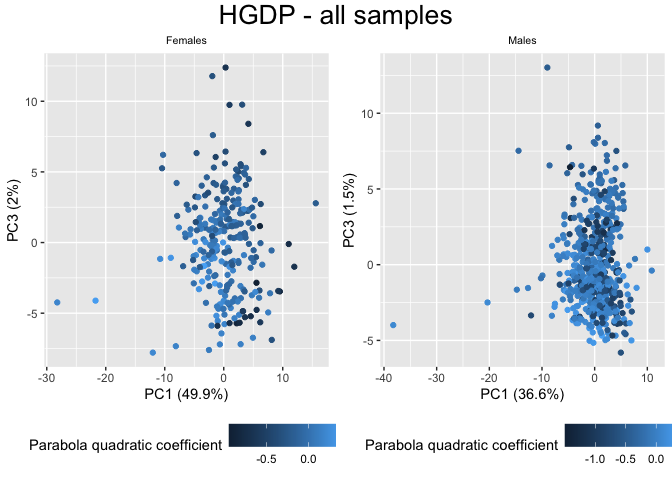
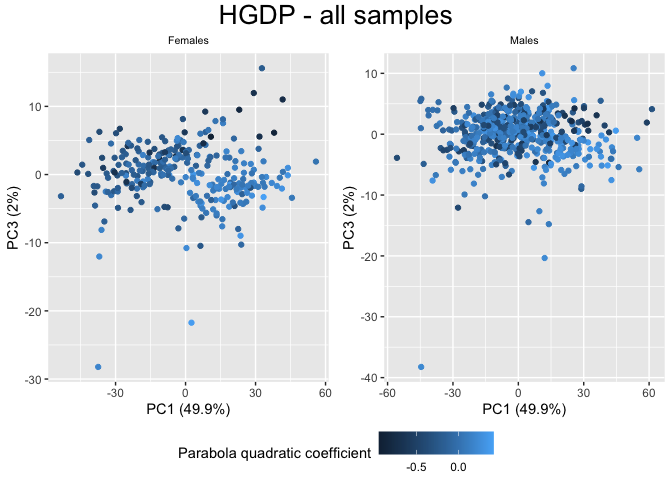
GC bias SNPs
-

diff --git a/documentation/other-documentation/GC-bias.md b/documentation/other-documentation/GC-bias.md
@@ -257,7 +257,26 @@ all_parabolas <- function(data){
 a_HGDP <- all_parabolas(HGDP)
 a_SGDP <- all_parabolas(SGDP)
 
-joined_HGDP <- inner_join(HGDP, a_HGDP, by="ID") %>% filter(type=="te") 
+(joined_HGDP <- inner_join(HGDP, a_HGDP, by="ID") %>% filter(type=="te"))
+```
+
+    ## # A tibble: 799,020 × 11
+    ##    ID       pop   sex   country type  famil…¹ length  reads copyn…² batch      a
+    ##    <chr>    <chr> <chr> <chr>   <chr> <chr>    <dbl>  <dbl>   <dbl> <chr>  <dbl>
+    ##  1 HGDP000… Brah… male  Centra… te    LTR65      669 1.10e3 6.57e+0 ro    -0.830
+    ##  2 HGDP000… Brah… male  Centra… te    HERVK3I   7242 3.89e4 2.15e+1 ro    -0.830
+    ##  3 HGDP000… Brah… male  Centra… te    HERV9     8399 3.12e5 1.49e+2 ro    -0.830
+    ##  4 HGDP000… Brah… male  Centra… te    L1PA12…   3072 6.41e4 8.36e+1 ro    -0.830
+    ##  5 HGDP000… Brah… male  Centra… te    LTR27C     767 3.13e3 1.63e+1 ro    -0.830
+    ##  6 HGDP000… Brah… male  Centra… te    LTR16A1    457 4.14e2 3.63e+0 ro    -0.830
+    ##  7 HGDP000… Brah… male  Centra… te    Tigger…    933 9.32e0 4.01e-2 ro    -0.830
+    ##  8 HGDP000… Brah… male  Centra… te    LTR23      437 7.70e3 7.06e+1 ro    -0.830
+    ##  9 HGDP000… Brah… male  Centra… te    X32_DNA    336 4.38e1 5.22e-1 ro    -0.830
+    ## 10 HGDP000… Brah… male  Centra… te    LTR53      519 1.36e3 1.05e+1 ro    -0.830
+    ## # … with 799,010 more rows, and abbreviated variable names ¹familyname,
+    ## #   ²copynumber
+
+``` r
 joined_SGDP <- inner_join(SGDP, a_SGDP, by="ID") %>% filter(type=="te")
 
 joined_HGDP_nopcr <- inner_join(HGDP_pcr_free, a_HGDP, by="ID") %>% filter(type=="te") 
@@ -356,7 +375,7 @@ Yes!
 ### Exploring other PCs
 
 ``` r
-PCA_GC_34 <- function(data, title){
+PCA_otherPC_GC <- function(data, title, PCx, PCy){
   m <- filter(data, sex=='male')
   f <- filter(data, sex=='female')
   len <- length(unique(data$familyname))
@@ -370,7 +389,7 @@ PCA_GC_34 <- function(data, title){
   f_matrixcont<-matrix(as.vector(f$country),nrow=females,ncol=len,byrow=T)
   f_framcont<-data.frame(f_matrixcont)
   f_rsqrcol<-unique(f$a)
-
+  
    m_matrix<-matrix(as.vector(m$copynumber),nrow=males,ncol=len,byrow=T)
    m_fram<-data.frame(m_matrix)
    names(m_fram)<-unique(m$familyname)
@@ -378,58 +397,204 @@ PCA_GC_34 <- function(data, title){
    m_matrixcont<-matrix(as.vector(m$country),nrow=males,ncol=len,byrow=T)
    m_framcont<-data.frame(m_matrixcont)
    m_rsqrcol<-unique(m$a)
-  
-    fHGDP.pca <- prcomp(f_fram, center = TRUE, scale = TRUE)
-    f_var <- summary(fHGDP.pca)$importance[2,1]
 
 fHGDP.pca <- prcomp(f_fram, center = TRUE, scale = TRUE)
-f_var1 <- summary(fHGDP.pca)$importance[2,1]
-f_var2 <- summary(fHGDP.pca)$importance[2,3]
+f_var1 <- summary(fHGDP.pca)$importance[2,PCx]
+f_var2 <- summary(fHGDP.pca)$importance[2,PCy]
 
-f_PCA <- ggplot(data=f_fram, aes(x=fHGDP.pca$x[,3], y=fHGDP.pca$x[,4], color = f_rsqrcol)) + 
+f_PCA <- ggplot(data=f_fram, aes(x=fHGDP.pca$x[,PCx], y=fHGDP.pca$x[,PCy], color = f_rsqrcol)) + 
   geom_point() + 
   ggtitle("Females") + 
-  xlab(paste0("PC1 (", round(f_var1,3)*100,"%)")) + 
-  ylab(paste0("PC3 (",round(f_var2,3)*100,"%)")) + 
-  theme(plot.title = element_text(size = 8, hjust = 0.5)) + 
-  guides(col = guide_colourbar(title = "Parabola quadratic coefficient"))
+  xlab(paste0("PC", PCx, " (", round(f_var1,3)*100,"%)")) + 
+  ylab(paste0("PC", PCy, " (",round(f_var2,3)*100,"%)")) + 
+  theme(plot.title = element_text(size = 8, hjust = 0.5)) +
+guides(col = guide_colourbar(title = "Parabola quadratic coefficient")) 
 
 mHGDP.pca <- prcomp(m_fram, center = TRUE, scale = TRUE)
-m_var1 <- summary(mHGDP.pca)$importance[2,1]
-m_var2 <- summary(mHGDP.pca)$importance[2,3]
+m_var1 <- summary(mHGDP.pca)$importance[2,PCx]
+m_var2 <- summary(mHGDP.pca)$importance[2,PCy]
 
-m_PCA <- ggplot(data=m_fram, aes(x=mHGDP.pca$x[,3], y=mHGDP.pca$x[,4], color = m_rsqrcol)) +
+m_PCA <- ggplot(data=m_fram, aes(x=mHGDP.pca$x[,PCx], y=mHGDP.pca$x[,PCy], color = m_rsqrcol)) +
 geom_point() +
 ggtitle("Males") +
-xlab(paste0("PC1 (", round(m_var1,3)*100,"%)")) +
-ylab(paste0("PC3 (",round(m_var2,3)*100,"%)")) +
-theme(plot.title = element_text(size = 8, hjust = 0.5)) +
-guides(col = guide_colourbar(title = "Parabola quadratic coefficient"))
+xlab(paste0("PC", PCx, " (", round(f_var1,3)*100,"%)")) + 
+ylab(paste0("PC", PCy, " (",round(f_var2,3)*100,"%)")) + 
+theme(plot.title = element_text(size = 8, hjust = 0.5))  +
+guides(col = guide_colourbar(title = "Parabola quadratic coefficient")) 
 
-      figure <- ggarrange(f_PCA, m_PCA, ncol = 2, nrow = 1, common.legend = FALSE, legend = "bottom", font.label = list(size = 10, color = "black", face = "bold", family = NULL, position = "top"))
+figure <- ggarrange(f_PCA, m_PCA, ncol = 2, nrow = 1, common.legend = TRUE, legend = "bottom", font.label = list(size = 10, color = "black", face = "bold", family = NULL, position = "top"))
    
-    annotate_figure(figure, top = text_grob(title, color = "black", size = 20), fig.lab = "")
+annotate_figure(figure, top = text_grob(title, color = "black", size = 20), fig.lab = "")
 }
 
-PCA_GC_34(joined_HGDP, "HGDP - all samples")
+PCA_otherPC_GC(joined_HGDP, "HGDP - all samples", 1, 3)
 ```
 
 ![](GC-bias_files/figure-gfm/unnamed-chunk-10-1.png)<!-- -->
 
 ``` r
-PCA_GC_34(joined_SGDP, "SGDP - all samples")
+PCA_otherPC_GC(joined_SGDP, "SGDP - all samples", 1, 3)
 ```
 
-![](GC-bias_files/figure-gfm/unnamed-chunk-10-2.png)<!-- -->
+![](GC-bias_files/figure-gfm/unnamed-chunk-10-2.png)<!-- --> \## SNPs
 
 ``` r
-PCA_GC_34(joined_HGDP_nopcr, "HGDP - PCR free")
-```
+SNP_GC <- function(freq_matrix, metadata, title){
 
-![](GC-bias_files/figure-gfm/unnamed-chunk-10-3.png)<!-- -->
+matrix <- read_csv(freq_matrix)
+  
+f_metadata <- metadata %>% filter(sex=="female") %>% select(ID, sex, country, pop, a) %>% distinct()
+m_metadata <- metadata %>% filter(sex=="male") %>% select(ID, sex, country, pop, a) %>% distinct()
+males_matrix <- filter(matrix, ID %in% m_metadata$ID) %>% select(!(ID))
+females_matrix <- filter(matrix, ID %in% f_metadata$ID) %>% select(!(ID))
+
+f_pca_data <- females_matrix %>% select_if(negate(function(col) sd(col)==0))
+m_pca_data <- males_matrix %>% select_if(negate(function(col) sd(col)==0))
+
+f_pca_result <- prcomp(f_pca_data, center = TRUE, scale = TRUE)
+m_pca_result <- prcomp(m_pca_data, center = TRUE, scale = TRUE)
+  
+f_var_explained <- f_pca_result$sdev^2/sum(f_pca_result$sdev^2)
+m_var_explained <- m_pca_result$sdev^2/sum(m_pca_result$sdev^2)
+   
+f <- f_pca_result$x %>% as_tibble() %>% add_column(.before = 1, ID=f_metadata$ID, sex=f_metadata$sex, pop=f_metadata$pop, country=f_metadata$country, a=f_metadata$a) %>% as.data.frame() %>%
+ ggplot(aes(x=PC1,y=PC2, color=a)) + geom_point(size=2) + stat_ellipse() +
+labs(x=paste0("PC1: ",round(f_var_explained[1]*100,1),"%"),
+        y=paste0("PC2: ",round(f_var_explained[2]*100,1),"%")) + ggtitle(title) +
+ theme(plot.title = element_text(hjust = 0.5)) +
+guides(col = guide_colourbar(title = "Parabola quadratic coefficient")) 
+   
+  m <- m_pca_result$x %>% as_tibble() %>% add_column(.before = 1, ID=m_metadata$ID, sex=m_metadata$sex, pop=m_metadata$pop, country=m_metadata$country, a=m_metadata$a) %>% as.data.frame() %>%
+  ggplot(aes(x=PC1,y=PC2, color=a)) + geom_point(size=2) + stat_ellipse() +
+   labs(x=paste0("PC1: ",round(m_var_explained[1]*100,1),"%"),
+        y=paste0("PC2: ",round(m_var_explained[2]*100,1),"%")) + ggtitle(title) +
+ theme(plot.title = element_text(hjust = 0.5)) +
+guides(col = guide_colourbar(title = "Parabola quadratic coefficient")) 
+ 
+ggarrange(f, m, ncol = 2, nrow = 1, common.legend = TRUE, legend = "bottom", align = "hv", font.label = list(size = 10, color = "black", face = "bold", family = NULL, position = "top"))
+  }
+```
 
 ``` r
-PCA_GC_34(joined_SGDP_nopcr, "SGDP - PCR free")
+SNP_GC("/Volumes/Temp1/rpianezza/TE/SNP/try04/separed.all.08.5000x.matrix.tsv", joined_HGDP, "HGDP - all samples")
 ```
 
-![](GC-bias_files/figure-gfm/unnamed-chunk-10-4.png)<!-- -->
+    ## Rows: 828 Columns: 69481
+    ## ── Column specification ────────────────────────────────────────────────────────
+    ## Delimiter: ","
+    ## chr     (1): ID
+    ## dbl (69480): HERV9_te_78A, HERV9_te_78T, HERV9_te_78C, HERV9_te_78G, HERV9_t...
+    ## 
+    ## ℹ Use `spec()` to retrieve the full column specification for this data.
+    ## ℹ Specify the column types or set `show_col_types = FALSE` to quiet this message.
+
+    ## Warning: The following aesthetics were dropped during statistical transformation: colour
+    ## ℹ This can happen when ggplot fails to infer the correct grouping structure in
+    ##   the data.
+    ## ℹ Did you forget to specify a `group` aesthetic or to convert a numerical
+    ##   variable into a factor?
+    ## The following aesthetics were dropped during statistical transformation: colour
+    ## ℹ This can happen when ggplot fails to infer the correct grouping structure in
+    ##   the data.
+    ## ℹ Did you forget to specify a `group` aesthetic or to convert a numerical
+    ##   variable into a factor?
+    ## The following aesthetics were dropped during statistical transformation: colour
+    ## ℹ This can happen when ggplot fails to infer the correct grouping structure in
+    ##   the data.
+    ## ℹ Did you forget to specify a `group` aesthetic or to convert a numerical
+    ##   variable into a factor?
+
+![](GC-bias_files/figure-gfm/all-1.png)<!-- -->
+
+``` r
+SNP_GC("/Volumes/Temp1/rpianezza/TE/SNP/try04/separed.all.08.5000x.matrix.tsv", joined_HGDP_nopcr, "HGDP - pcr-free samples")
+```
+
+    ## Rows: 828 Columns: 69481
+    ## ── Column specification ────────────────────────────────────────────────────────
+    ## Delimiter: ","
+    ## chr     (1): ID
+    ## dbl (69480): HERV9_te_78A, HERV9_te_78T, HERV9_te_78C, HERV9_te_78G, HERV9_t...
+    ## 
+    ## ℹ Use `spec()` to retrieve the full column specification for this data.
+    ## ℹ Specify the column types or set `show_col_types = FALSE` to quiet this message.
+
+    ## Warning: The following aesthetics were dropped during statistical transformation: colour
+    ## ℹ This can happen when ggplot fails to infer the correct grouping structure in
+    ##   the data.
+    ## ℹ Did you forget to specify a `group` aesthetic or to convert a numerical
+    ##   variable into a factor?
+    ## The following aesthetics were dropped during statistical transformation: colour
+    ## ℹ This can happen when ggplot fails to infer the correct grouping structure in
+    ##   the data.
+    ## ℹ Did you forget to specify a `group` aesthetic or to convert a numerical
+    ##   variable into a factor?
+    ## The following aesthetics were dropped during statistical transformation: colour
+    ## ℹ This can happen when ggplot fails to infer the correct grouping structure in
+    ##   the data.
+    ## ℹ Did you forget to specify a `group` aesthetic or to convert a numerical
+    ##   variable into a factor?
+
+![](GC-bias_files/figure-gfm/all-2.png)<!-- -->
+
+``` r
+SNP_GC("/Volumes/Temp1/rpianezza/SGDP/SNP/separed.all.08.5000x.matrix.tsv", joined_SGDP, "SGDP - all samples")
+```
+
+    ## Rows: 276 Columns: 66289
+    ## ── Column specification ────────────────────────────────────────────────────────
+    ## Delimiter: ","
+    ## chr     (1): ID
+    ## dbl (66288): HERV9_te_79A, HERV9_te_79T, HERV9_te_79C, HERV9_te_79G, HERV9_t...
+    ## 
+    ## ℹ Use `spec()` to retrieve the full column specification for this data.
+    ## ℹ Specify the column types or set `show_col_types = FALSE` to quiet this message.
+
+    ## Warning: The following aesthetics were dropped during statistical transformation: colour
+    ## ℹ This can happen when ggplot fails to infer the correct grouping structure in
+    ##   the data.
+    ## ℹ Did you forget to specify a `group` aesthetic or to convert a numerical
+    ##   variable into a factor?
+    ## The following aesthetics were dropped during statistical transformation: colour
+    ## ℹ This can happen when ggplot fails to infer the correct grouping structure in
+    ##   the data.
+    ## ℹ Did you forget to specify a `group` aesthetic or to convert a numerical
+    ##   variable into a factor?
+    ## The following aesthetics were dropped during statistical transformation: colour
+    ## ℹ This can happen when ggplot fails to infer the correct grouping structure in
+    ##   the data.
+    ## ℹ Did you forget to specify a `group` aesthetic or to convert a numerical
+    ##   variable into a factor?
+
+![](GC-bias_files/figure-gfm/all-3.png)<!-- -->
+
+``` r
+SNP_GC("/Volumes/Temp1/rpianezza/SGDP/SNP/separed.all.08.5000x.matrix.tsv", joined_SGDP_nopcr, "SGDP - pcr-free samples")
+```
+
+    ## Rows: 276 Columns: 66289
+    ## ── Column specification ────────────────────────────────────────────────────────
+    ## Delimiter: ","
+    ## chr     (1): ID
+    ## dbl (66288): HERV9_te_79A, HERV9_te_79T, HERV9_te_79C, HERV9_te_79G, HERV9_t...
+    ## 
+    ## ℹ Use `spec()` to retrieve the full column specification for this data.
+    ## ℹ Specify the column types or set `show_col_types = FALSE` to quiet this message.
+
+    ## Warning: The following aesthetics were dropped during statistical transformation: colour
+    ## ℹ This can happen when ggplot fails to infer the correct grouping structure in
+    ##   the data.
+    ## ℹ Did you forget to specify a `group` aesthetic or to convert a numerical
+    ##   variable into a factor?
+    ## The following aesthetics were dropped during statistical transformation: colour
+    ## ℹ This can happen when ggplot fails to infer the correct grouping structure in
+    ##   the data.
+    ## ℹ Did you forget to specify a `group` aesthetic or to convert a numerical
+    ##   variable into a factor?
+    ## The following aesthetics were dropped during statistical transformation: colour
+    ## ℹ This can happen when ggplot fails to infer the correct grouping structure in
+    ##   the data.
+    ## ℹ Did you forget to specify a `group` aesthetic or to convert a numerical
+    ##   variable into a factor?
+
+![](GC-bias_files/figure-gfm/all-4.png)<!-- -->
